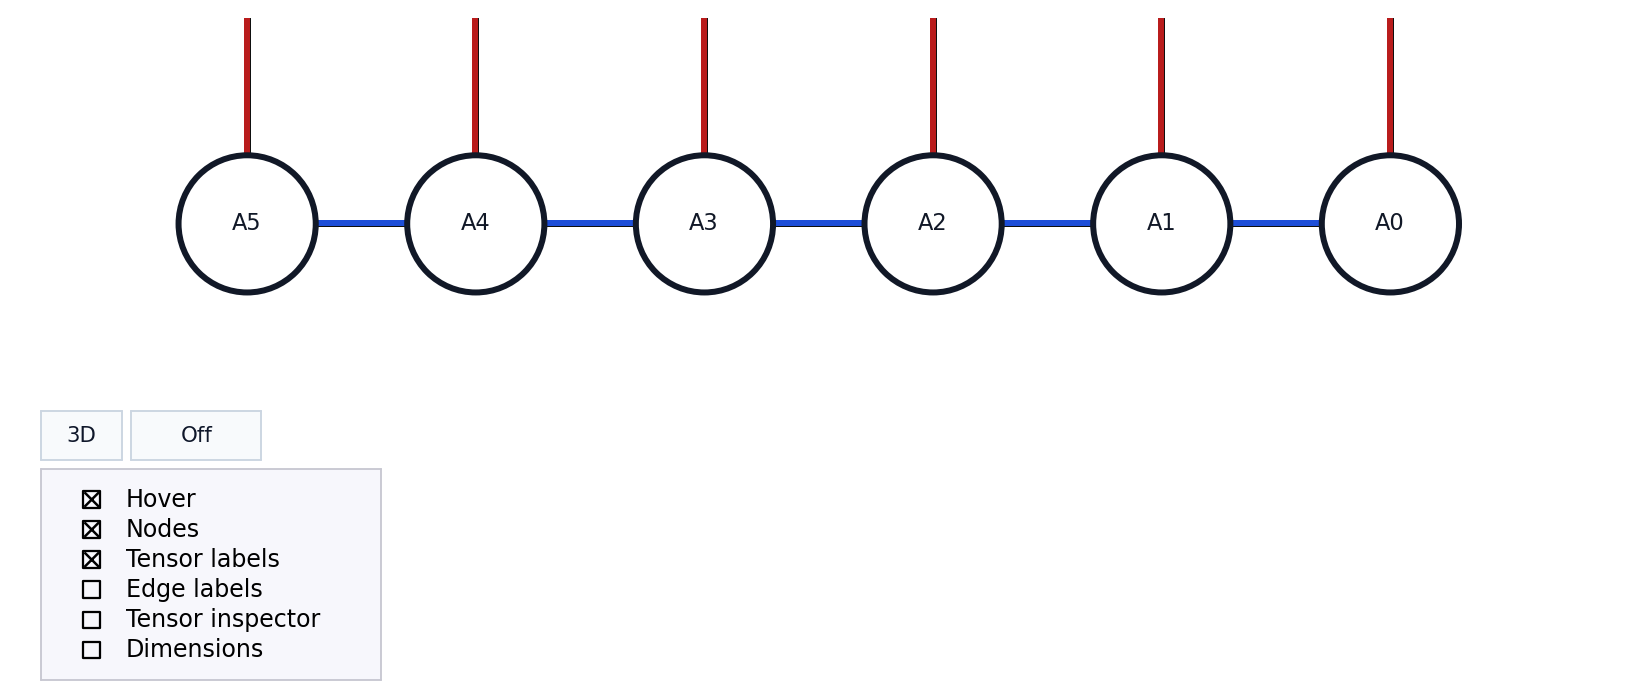
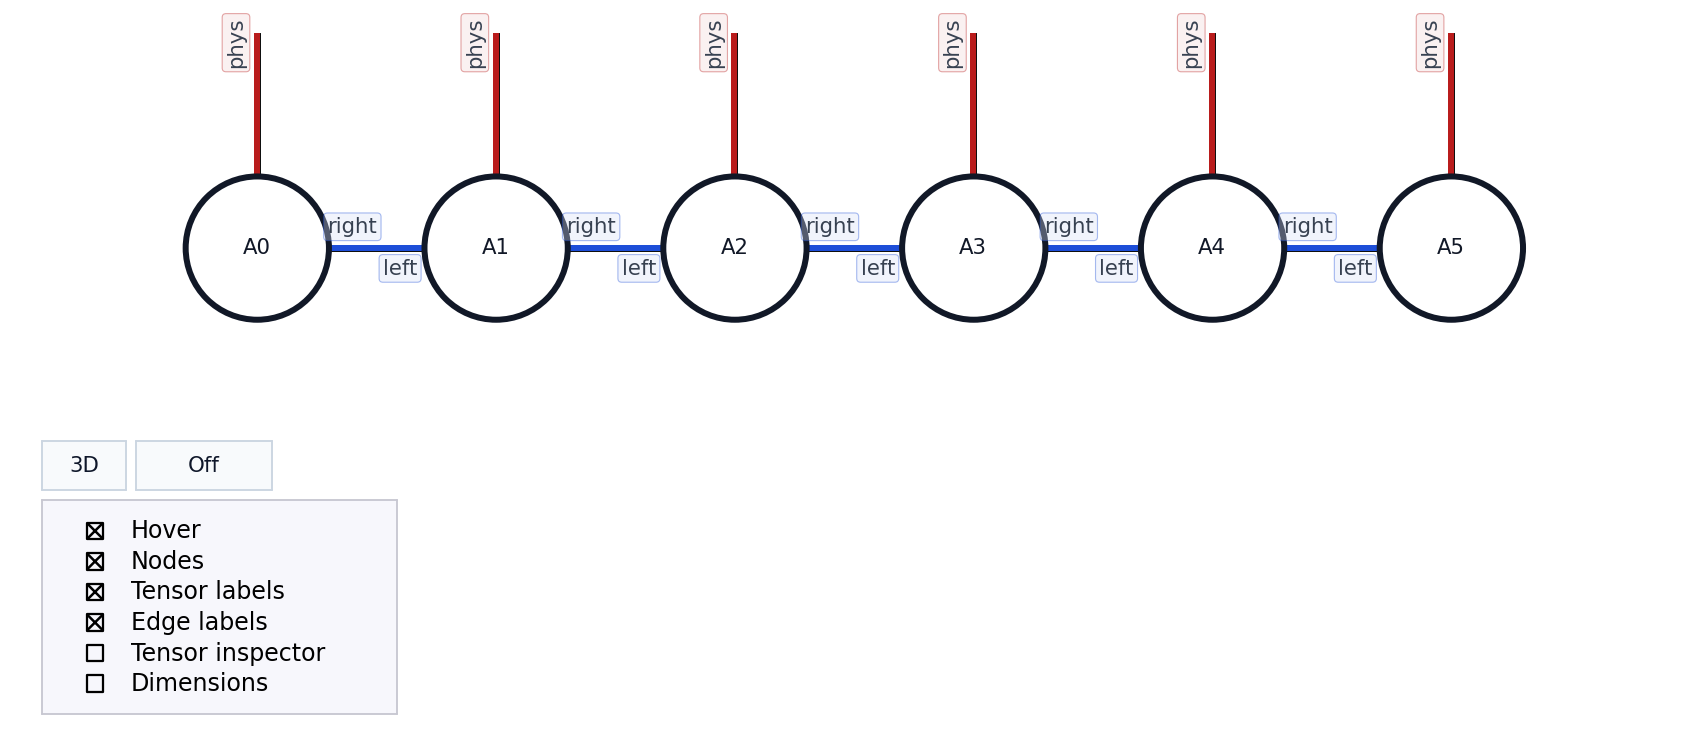
Images update

diff --git a/scripts/generate_doc_images.py b/scripts/generate_doc_images.py
@@ -21,6 +21,7 @@ DOC_GALLERY_RELATIVE_PATHS: tuple[Path, ...] = (
     Path("images/gallery/tubular_grid_3d.png"),
     Path("images/gallery/network_controls.png"),
     Path("images/gallery/tensor_elements_phase.png"),
+    Path("images/gallery/tensor_elements_controls.png"),
 )
 
 
@@ -87,7 +88,7 @@ def _render_mera(output_root: Path) -> Path:
 
     from tensor_network_viz import PlotConfig, show_tensor_network
 
-    node_specs, bond_specs = tensorkrowch_demo._mera_specs(4)
+    node_specs, bond_specs = tensorkrowch_demo._mera_specs(3)
     network, _nodes = tensorkrowch_demo._build_tensorkrowch_network(node_specs, bond_specs)
     fig, _ax = show_tensor_network(
         network,
@@ -95,11 +96,13 @@ def _render_mera(output_root: Path) -> Path:
         view="2d",
         config=PlotConfig(
             theme="slate",
+            show_nodes=True,
             show_tensor_labels=True,
             hover_labels=False,
-            figsize=(10.5, 5.8),
-            layout_iterations=260,
-            tensor_label_fontsize=7.5,
+            figsize=(9.6, 5.4),
+            layout_iterations=220,
+            tensor_label_fontsize=8.2,
+            node_radius=0.09,
         ),
         show_controls=False,
         show=False,
@@ -146,10 +149,11 @@ def _render_network_controls(output_root: Path) -> Path:
         config=PlotConfig(
             theme="paper",
             show_tensor_labels=True,
-            show_index_labels=False,
+            show_index_labels=True,
             hover_labels=True,
-            figsize=(9.0, 6.8),
-            tensor_label_fontsize=9.0,
+            figsize=(9.4, 6.9),
+            tensor_label_fontsize=8.5,
+            edge_label_fontsize=8.5,
         ),
         show_controls=True,
         show=False,
@@ -181,6 +185,28 @@ def _render_tensor_elements_phase(output_root: Path) -> Path:
     return _save_figure(fig, output_root / DOC_GALLERY_RELATIVE_PATHS[4], transparent=True)
 
 
+def _render_tensor_elements_controls(output_root: Path) -> Path:
+    import tensor_elements_demo
+
+    from tensor_network_viz import TensorElementsConfig, show_tensor_elements
+
+    nodes = tensor_elements_demo.build_structured_network()
+    fig, _ax = show_tensor_elements(
+        nodes,
+        config=TensorElementsConfig(
+            mode="auto",
+            figsize=(9.0, 7.0),
+            max_matrix_shape=(384, 384),
+            shared_color_scale=True,
+            robust_percentiles=(1.0, 99.0),
+            topk_count=10,
+        ),
+        show_controls=True,
+        show=False,
+    )
+    return _save_figure(fig, output_root / DOC_GALLERY_RELATIVE_PATHS[5], transparent=False)
+
+
 def generate_doc_images(output_root: Path | None = None) -> tuple[Path, ...]:
     repo_root = _repo_root()
     _bootstrap_import_paths(repo_root)
@@ -191,6 +217,7 @@ def generate_doc_images(output_root: Path | None = None) -> tuple[Path, ...]:
         _render_tubular_grid(target_root),
         _render_network_controls(target_root),
         _render_tensor_elements_phase(target_root),
+        _render_tensor_elements_controls(target_root),
     )
 
 

diff --git a/tests/test_documentation_gallery.py b/tests/test_documentation_gallery.py
@@ -13,6 +13,8 @@ _README_GALLERY_RAW_URLS: tuple[str, ...] = (
     "https://raw.githubusercontent.com/DOKOS-TAYOS/Tensor-Network-Visualization/main/images/gallery/mera_2d.png",
     "https://raw.githubusercontent.com/DOKOS-TAYOS/Tensor-Network-Visualization/main/images/gallery/tubular_grid_3d.png",
     "https://raw.githubusercontent.com/DOKOS-TAYOS/Tensor-Network-Visualization/main/images/gallery/network_controls.png",
+    "https://raw.githubusercontent.com/DOKOS-TAYOS/Tensor-Network-Visualization/main/images/gallery/tensor_elements_phase.png",
+    "https://raw.githubusercontent.com/DOKOS-TAYOS/Tensor-Network-Visualization/main/images/gallery/tensor_elements_controls.png",
 )
 
 _DOC_GALLERY_RELATIVE_PATHS: tuple[str, ...] = (
@@ -20,13 +22,16 @@ _DOC_GALLERY_RELATIVE_PATHS: tuple[str, ...] = (
     "../images/gallery/tensor_elements_phase.png",
     "../images/gallery/tubular_grid_3d.png",
     "../images/gallery/network_controls.png",
+    "../images/gallery/tensor_elements_controls.png",
 )
 
 _EXAMPLES_GALLERY_RELATIVE_PATHS: tuple[str, ...] = (
     "../images/gallery/cubic_peps_3d.png",
     "../images/gallery/mera_2d.png",
     "../images/gallery/tubular_grid_3d.png",
+    "../images/gallery/network_controls.png",
     "../images/gallery/tensor_elements_phase.png",
+    "../images/gallery/tensor_elements_controls.png",
 )
 
 
@@ -65,6 +70,7 @@ def test_generate_doc_images_script_declares_expected_outputs() -> None:
         Path("images/gallery/tubular_grid_3d.png"),
         Path("images/gallery/network_controls.png"),
         Path("images/gallery/tensor_elements_phase.png"),
+        Path("images/gallery/tensor_elements_controls.png"),
     )
 
     assert expected_paths == module.DOC_GALLERY_RELATIVE_PATHS

diff --git a/README.md b/README.md
@@ -25,25 +25,35 @@ transparent PNGs; the controls example keeps its background so the menu stays re
   <img
     src="https://raw.githubusercontent.com/DOKOS-TAYOS/Tensor-Network-Visualization/main/images/gallery/cubic_peps_3d.png"
     alt="Cubic PEPS 3D tensor network visualization"
-    width="250"
+    width="230"
   >
   <img
     src="https://raw.githubusercontent.com/DOKOS-TAYOS/Tensor-Network-Visualization/main/images/gallery/mera_2d.png"
     alt="MERA 2D tensor network visualization with labels"
-    width="250"
+    width="230"
   >
   <img
     src="https://raw.githubusercontent.com/DOKOS-TAYOS/Tensor-Network-Visualization/main/images/gallery/tubular_grid_3d.png"
     alt="Tubular 3D tensor network visualization"
-    width="250"
+    width="230"
   >
 </p>
 
 <p align="center">
   <img
     src="https://raw.githubusercontent.com/DOKOS-TAYOS/Tensor-Network-Visualization/main/images/gallery/network_controls.png"
-    alt="Tensor-network controls for labels, nodes, hover, and 2D or 3D switching"
-    width="560"
+    alt="MPS with controls, tensor labels, and index labels"
+    width="230"
+  >
+  <img
+    src="https://raw.githubusercontent.com/DOKOS-TAYOS/Tensor-Network-Visualization/main/images/gallery/tensor_elements_phase.png"
+    alt="Tensor elements phase visualization"
+    width="230"
+  >
+  <img
+    src="https://raw.githubusercontent.com/DOKOS-TAYOS/Tensor-Network-Visualization/main/images/gallery/tensor_elements_controls.png"
+    alt="Tensor elements view with the full control menus"
+    width="230"
   >
 </p>
 

diff --git a/examples/README.md b/examples/README.md
@@ -64,16 +64,21 @@ python examples/run_demo.py geometry decorated_sparse_grid2d --view 2d
 
 These are a few representative outputs you can reproduce with the repository demos:
 
-| Cubic PEPS 3D | MERA 2D with labels | Tubular 3D | Tensor elements phase |
-| --- | --- | --- | --- |
-| ![Cubic PEPS 3D demo](../images/gallery/cubic_peps_3d.png) | ![MERA 2D demo](../images/gallery/mera_2d.png) | ![Tubular 3D demo](../images/gallery/tubular_grid_3d.png) | ![Tensor elements phase demo](../images/gallery/tensor_elements_phase.png) |
+| Cubic PEPS 3D | MERA 2D with labels | Tubular 3D |
+| --- | --- | --- |
+| ![Cubic PEPS 3D demo](../images/gallery/cubic_peps_3d.png) | ![MERA 2D demo](../images/gallery/mera_2d.png) | ![Tubular 3D demo](../images/gallery/tubular_grid_3d.png) |
+
+| MPS controls + index labels | Tensor elements phase | Tensor elements controls |
+| --- | --- | --- |
+| ![MPS controls demo](../images/gallery/network_controls.png) | ![Tensor elements phase demo](../images/gallery/tensor_elements_phase.png) | ![Tensor elements controls demo](../images/gallery/tensor_elements_controls.png) |
 
 Matching commands:
 
 ```bash
 python examples/run_demo.py tensorkrowch cubic_peps --view 3d
-python examples/run_demo.py tensorkrowch mera --view 2d --mera-log2 4
+python examples/run_demo.py tensorkrowch mera --view 2d --mera-log2 3
 python examples/run_demo.py geometry tubular_grid --view 3d
+python examples/run_demo.py tensorkrowch mps --view 2d --labels-edges
 python examples/tensor_elements_demo.py --demo structured
 ```
 

diff --git a/docs/guide.md b/docs/guide.md
@@ -398,6 +398,10 @@ Example tensor-elements view:
 
 ![Tensor elements phase heatmap](../images/gallery/tensor_elements_phase.png)
 
+Example interactive tensor-elements panel:
+
+![Tensor elements controls](../images/gallery/tensor_elements_controls.png)
+
 ## Tensor Comparison
 
 Use `show_tensor_comparison(...)` when you have one current tensor and one reference tensor.
